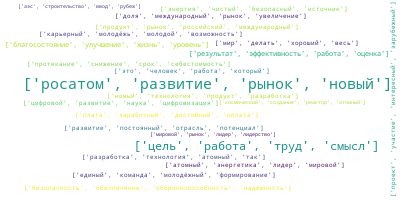
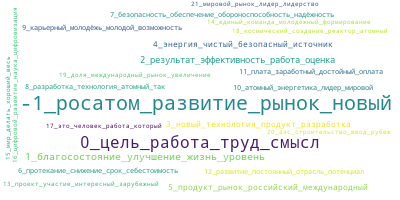
"Code cleaning"

diff --git a/bot_tg.py b/bot_tg.py
@@ -5,7 +5,7 @@ import os
 import requests
 import datetime
 from io import BytesIO
-from model import model_create_learn
+from model import model_create_learn #, plot_cloud    
 from data_preprocessing import preprocessing
 from lemmatization import lemmatize
 
@@ -71,46 +71,30 @@ def document_processing(message):
     print("Bulding model")
     df = model_create_learn(df)
 
-    print(df)
-    topics_df = df[['Count', 'Name', 'words']]
-    data = topics_df['words'].value_counts().to_dict()
+    # topics_df = df[['Count', 'Name', 'words']]
+    data = df['Name'].value_counts().to_dict()
 
-    print("Bot sending")
-    # now = str(datetime.datetime.today()).split()[0]
-    output_name = f'distribution of by topics.csv'
-    df.to_csv(output_name)
-    with open(output_name, 'rb') as doc:
-        bot.send_document(message.chat.id, doc)
+    # print("Bot sending")
+    # # now = str(datetime.datetime.today()).split()[0]
+    # output_name = f'distribution of by topics.csv'
+    # df.to_csv(output_name)
+    # with open(output_name, 'rb') as doc:
+    #     bot.send_document(message.chat.id, doc)
+    # df = pd.read_csv('distribution of by topics.csv')
+    # print(df)
+
+    wordcloud = WordCloud(max_font_size=100,
+                    relative_scaling=.5,
+                    background_color="white",
+                    colormap='viridis_r')    
     
-    print("Bot ploting")
-    plot_cloud(df)
+    wordcloud = wordcloud.generate_from_frequencies(data)
+    wordcloud.to_file("simple_wordcloud.png")
+
     print("Bot send image")
 
     img = open("simple_wordcloud.png", 'rb')
     bot.send_photo(message.chat.id, img)
-
-    # topics_df = df[['Count', 'Name', 'words']]
-    # print(topics_df)
-    # data = topics_df['words'].value_counts().to_dict()
-    # print('dfkdlfk__________________')
-    # print(data)
-
-    # full_dict = list(zip(topics_df['words'], topics_df['Count']))
-    # data = dict(full_dict)
-    # print(data)
-
-    # wordcloud = WordCloud(max_font_size=100,
-    #                 relative_scaling=.5,
-    #                 background_color="white",
-    #                 colormap='viridis_r')    
-    
-    # wordcloud = wordcloud.generate_from_frequencies(data)
-    # wordcloud.to_file("simple_wordcloud.png")
-
-    # print("Bot send image")
-
-    # img = open("simple_wordcloud.png", 'rb')
-    # bot.send_photo(message.chat.id, img)
 
 
 if __name__ == '__main__':

diff --git a/model.py b/model.py
@@ -65,20 +65,20 @@ def model_create_learn(df):
 
     return result
 
-def plot_cloud(df):
-    topics_df = df[['Count', 'Name', 'words']]
-    print(topics_df)
-    data = topics_df['words'].value_counts().to_dict()
-    print('dfkdlfk__________________')
-    print(data)
+# def plot_cloud(df):
+#     topics_df = df[['Count', 'Name', 'words']]
+#     print(topics_df)
+#     data = topics_df['words'].value_counts().to_dict()
+#     print('dfkdlfk__________________')
+#     print(data)
 
-    wordcloud = WordCloud(max_font_size=100,
-                    relative_scaling=.5,
-                    background_color="white",
-                    colormap='viridis_r')    
+#     wordcloud = WordCloud(max_font_size=100,
+#                     relative_scaling=.5,
+#                     background_color="white",
+#                     colormap='viridis_r')    
 
-    wordcloud = wordcloud.generate_from_frequencies(data)
-    wordcloud.to_file("simple_wordcloud.png")
+#     wordcloud = wordcloud.generate_from_frequencies(data)
+#     wordcloud.to_file("simple_wordcloud.png")
 
 if __name__ == '__main__':
     PATH = 'INPUT YOUR PATH TO PREPARED DATASET'
@@ -86,6 +86,6 @@ if __name__ == '__main__':
     df = pd.read_csv(PATH)
 
     # result = model_create_learn(df)
-    result = plot_cloud(df)
+    # result = plot_cloud(df)
 
     print(result)
